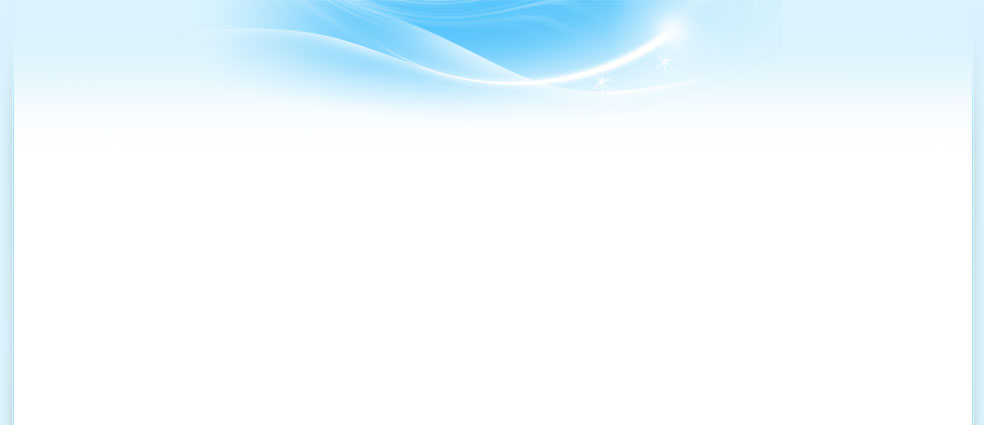
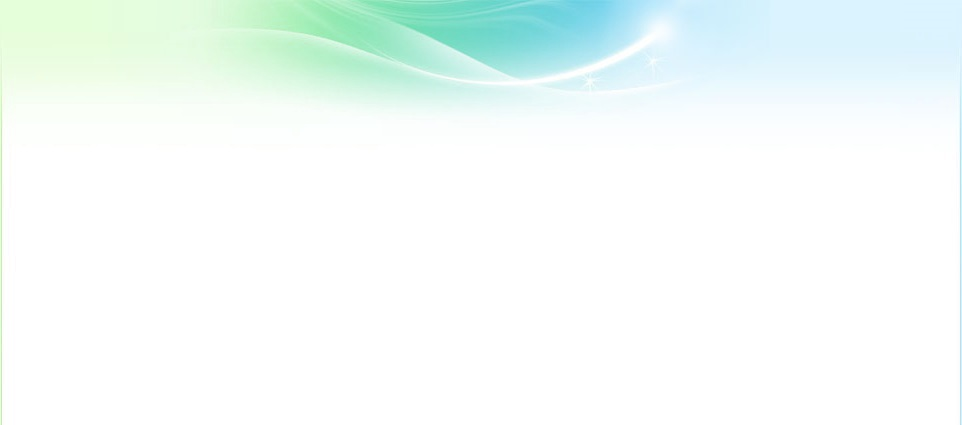
いろいろ変更

Changed region(s): [[0.0, 0.0, 0.5925, 1.0], [0.9667, 0.2141, 1.0, 1.0]]

diff --git a/css/style.css b/css/style.css
@@ -7,9 +7,13 @@
 }
 
 body {
-    background-color: #daf3fd;
+    background-image: url(../img/wallpaper.jpg);
+    background-size: 100%;
+    background-attachment: fixed;
     display: flex;
     flex-direction: column;
+    display: flex;
+    justify-content: center;
     align-items: center;
     font-family: "Segoe UI", Meiryo, sans-serif;
 }
@@ -98,27 +102,27 @@ button .button-right {
 }
 
 .main-about {
-    margin-left: 14px;
-    max-width: 959.2px;
+    margin-left: 2px;
+    max-width: 959px;
     max-height: 249px;
-    background: linear-gradient(to right, #D5D83F, #5FA83D, #003603);
+    background: linear-gradient(to right, #3fd8cb, #3da8a3, #003436);
     display: flex;
 }
 
 .main-inner {
-    margin-left: 50px;
+    margin-left: 52px;
     display: flex;
 }
 
 .main-inner-main {
-    width: 500px;
+    width: 448px;
 }
 
 .main-inner-right {
-    background: linear-gradient(to bottom, #e3edff 20%, #ffffff 80%);
+    background: linear-gradient(to bottom, #e3edff 20%, #effff0 80%, #ffffff 100%);
     max-width: 202.5px;
     width: 100%;
-    margin-left: -40px;
+    /*margin-left: -2px;*/
 }
 
 .main-inner-right-main {
@@ -126,11 +130,11 @@ button .button-right {
 }
 
 .main-inner-right-title {
-    color: #F58220;
+    color: #00b60f;
 }
 
 .main-inner-main h1 {
-    color: #F58220;
+    color: #00b60f;
 }
 
 .main-inner-icon2 {
@@ -153,11 +157,11 @@ button .button-right {
 
 .kiji a {
     text-decoration: none;
-    color: #0066CC;
+    color: #0092cc;
 }
 
 .kiji a:hover {
-    color: #0058B0;
+    color: #0061b0;
 }
 
 .footer {
@@ -190,6 +194,7 @@ button .button-right {
 .mail {
     display: flex;
 }
+
 .mail-image {
     width: 24px;
     height: 24px;
